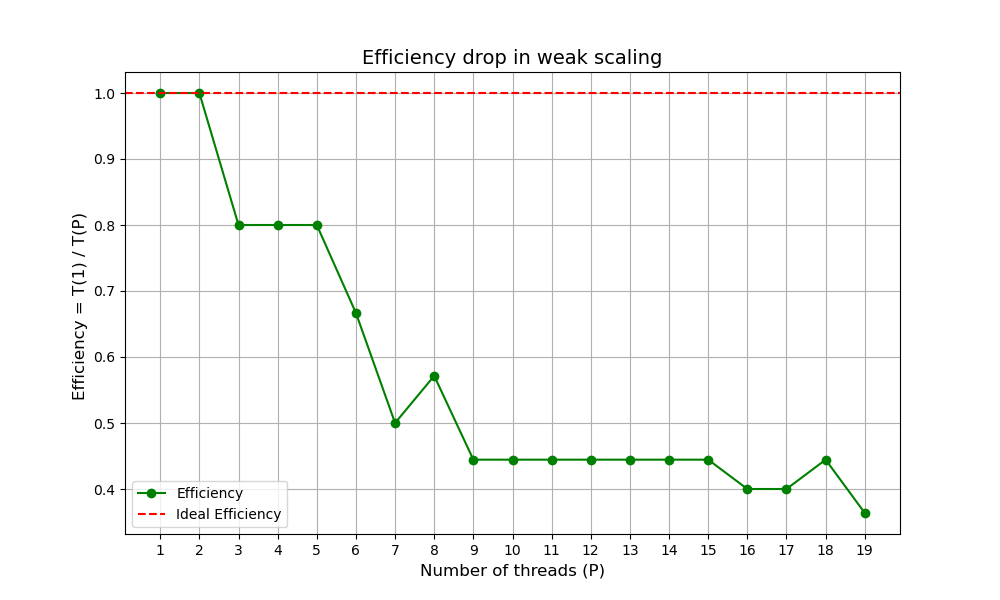
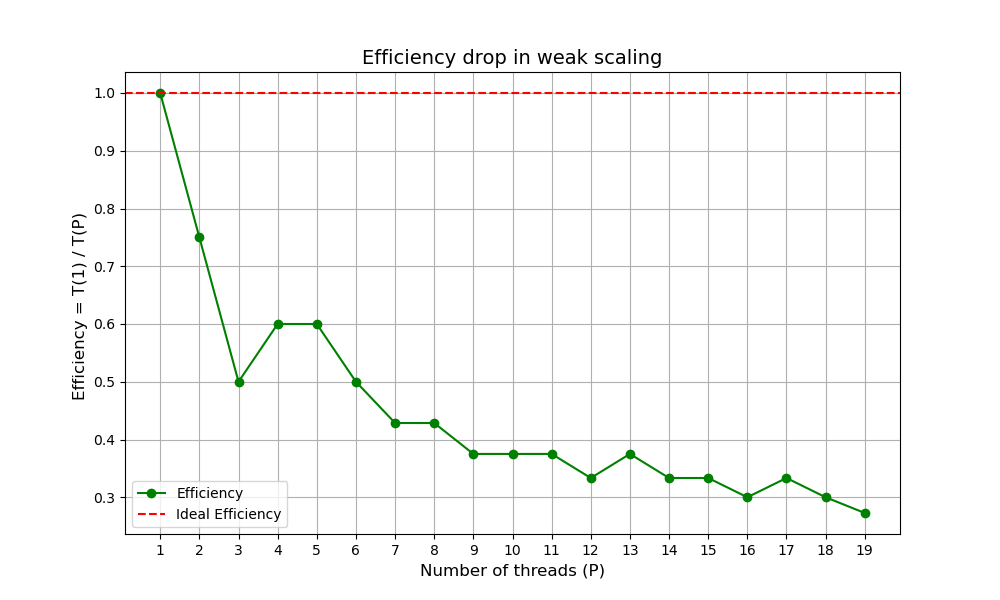
Plots fixed

diff --git a/omp/weak_time_plot.py b/omp/weak_time_plot.py
@@ -1,35 +1,64 @@
 import matplotlib.pyplot as plt
+import re
 
-# Data extracted from your output
-threads = [1, 2, 3, 4, 5, 6, 7, 8, 9, 10, 11, 12, 13, 14, 15, 16, 17, 18, 19, 20]
-compute_times = [
-    0.125, 0.15625, 0.15625, 0.15625, 0.15625, 0.15625, 0.21875, 0.25, 0.25, 0.25, 0.25, 0.28125, 
-    0.28125, 0.28125, 0.28125, 0.28125, 0.28125, 0.3125, 0.3125, 0.3125
-]
+# Nome del file dei risultati
+input_file = "weak.txt"
 
-# Create the plot
+# Liste per salvare i dati
+threads = []
+compute_times = []
+
+# Pattern per trovare il numero di thread e il tempo di calcolo
+thread_pattern = re.compile(r"OMP_NUM_THREADS=(\d+)")
+compute_time_pattern = re.compile(r"Compute time CPU:\s*([\d.]+)")
+
+# Lettura del file
+with open(input_file, "r") as file:
+    for line in file:
+        # Cerca il numero di thread
+        thread_match = thread_pattern.search(line)
+        if thread_match:
+            threads.append(int(thread_match.group(1)))
+        
+        # Cerca il tempo di calcolo
+        compute_time_match = compute_time_pattern.search(line)
+        if compute_time_match:
+            compute_times.append(float(compute_time_match.group(1)))
+
+# Debugging: verificare la lunghezza delle liste
+print(f"Threads: {len(threads)} elementi - {threads}")
+print(f"Compute Times: {len(compute_times)} elementi - {compute_times}")
+
+# Controllo della lunghezza delle liste
+min_length = min(len(threads), len(compute_times))
+
+# Allineare threads e compute_times alla stessa lunghezza
+threads = threads[:min_length]
+compute_times = compute_times[:min_length]
+
+print(f"Dati aggiornati: Threads = {threads}, Compute Times = {compute_times}")
+
+# Creazione del grafico
 plt.figure(figsize=(10, 6))
 plt.plot(threads, compute_times, marker='o', linestyle='-', color='b', label='Compute Time')
-    
+
 # Impostare i valori dell'asse x come interi
 plt.xticks(threads)
 
-# Labeling the axes
+# Etichette degli assi
 plt.xlabel('Number of Threads (P)', fontsize=12)
 plt.ylabel('Compute Time (seconds) T(P)', fontsize=12)
 
-# Adding a title
-plt.title('Weak Scaling of the Problem with P threads ', fontsize=14)
+# Titolo
+plt.title('Weak Scaling of the Problem with P Threads', fontsize=14)
 
-# Log scale for the x-axis to better visualize the scaling
-plt.xscale('linear')
-plt.yscale('linear')
-
-# Display grid
+# Aggiungere una griglia
 plt.grid(True)
 
-# Show the plot
+# Aggiungere una legenda
 plt.legend()
 
+# Salvataggio e visualizzazione del grafico
 plt.savefig("weak_time_plot.png")
 plt.show()
+
